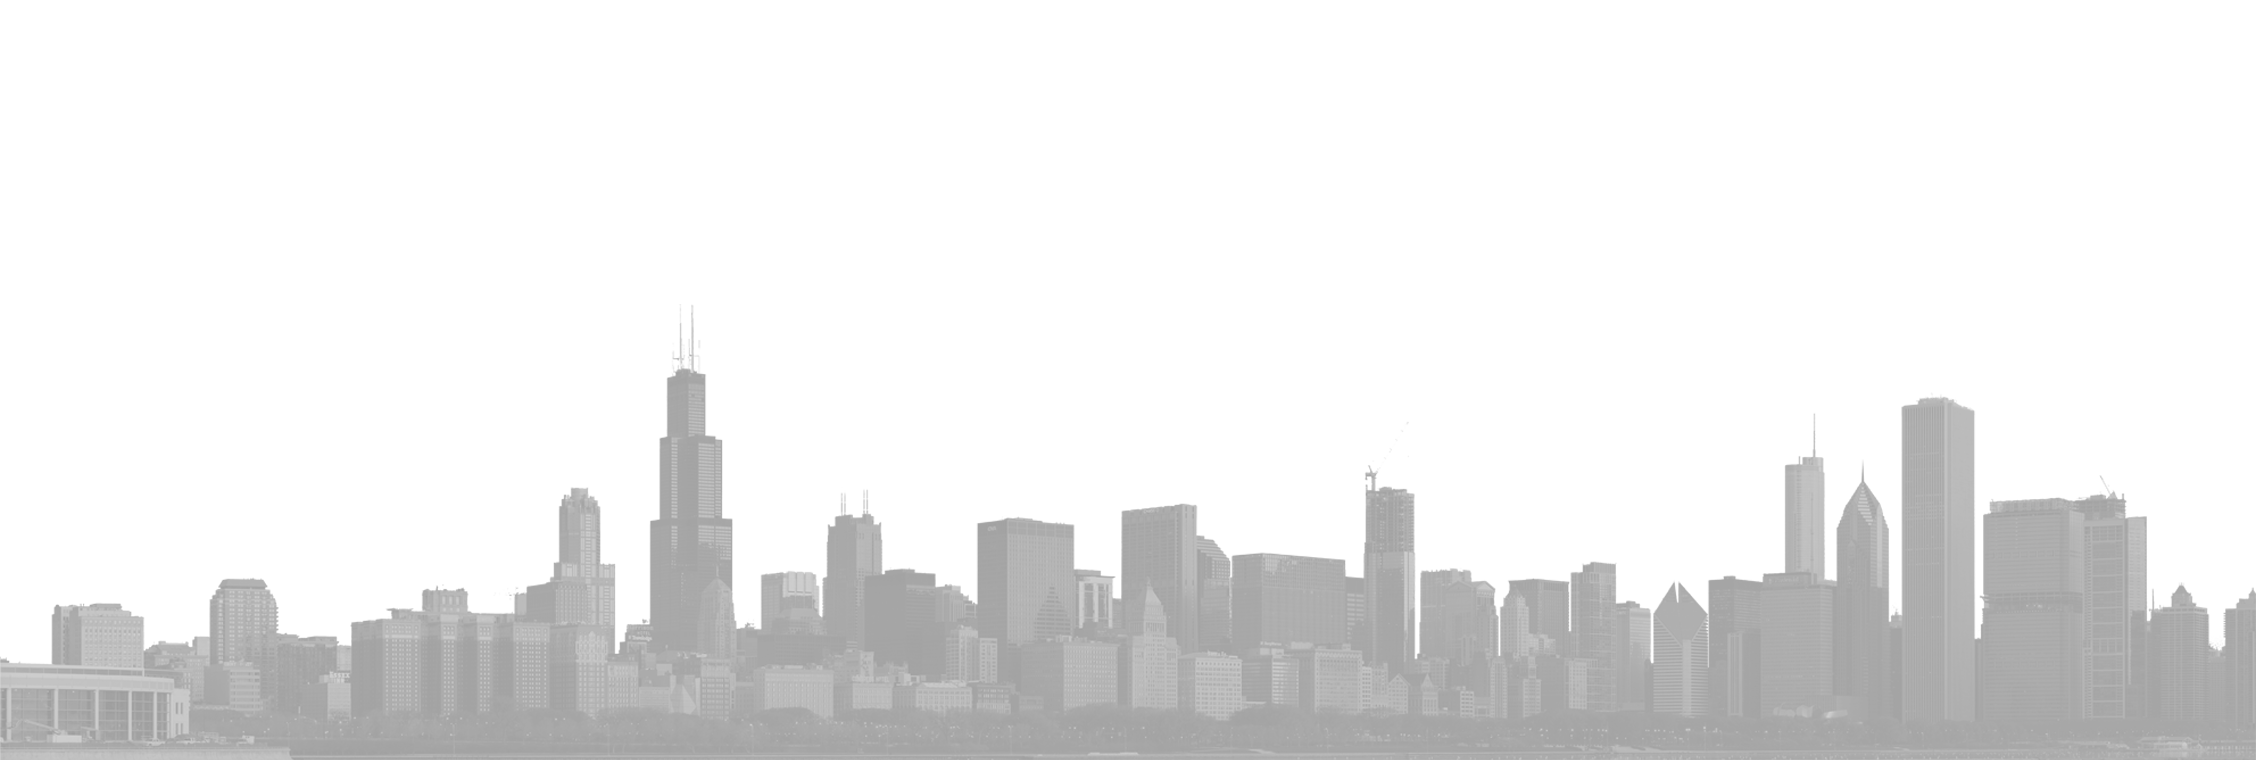
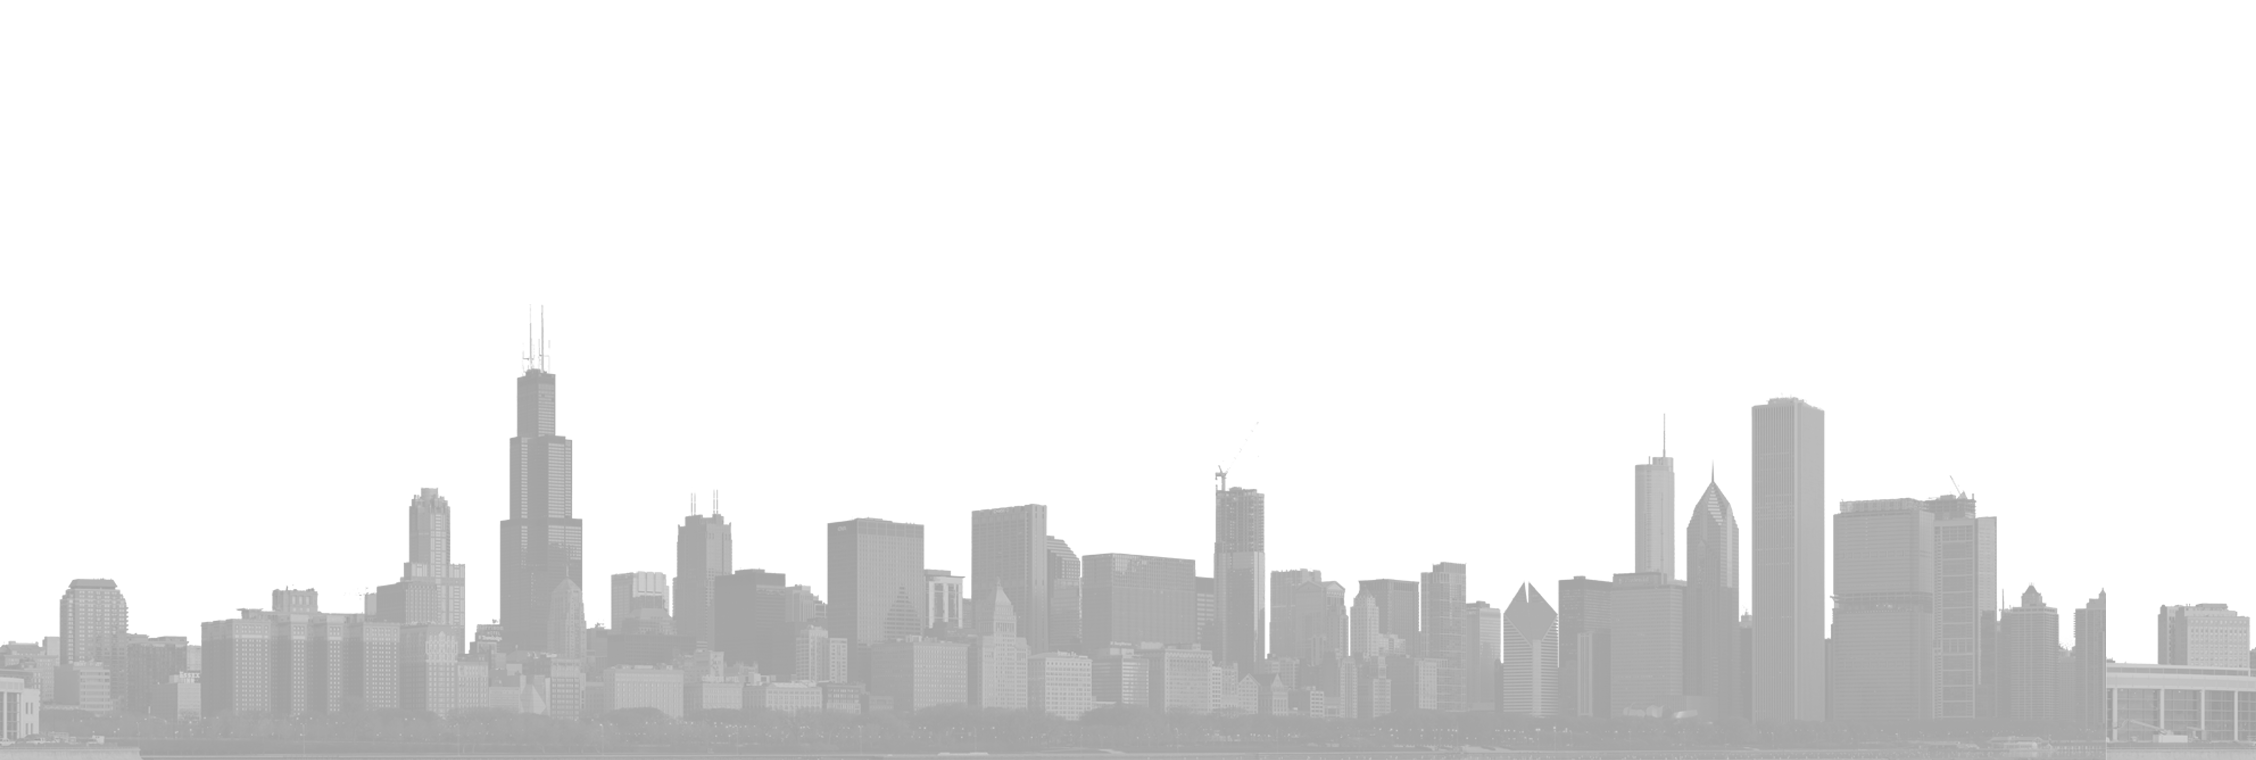
ThatGuy: Added more skinr options: Text color, fontface. Updated skyline.png so that Willis Tower is outside the content flow.

diff --git a/sites/all/themes/chicago_2011/css/chicago-2011-styles.css b/sites/all/themes/chicago_2011/css/chicago-2011-styles.css
@@ -105,7 +105,7 @@ body {
 }
 
 #page {
-	background: transparent url('../images/bg/skyline.png') no-repeat center 56px;
+	background: transparent url('../images/bg/skyline.png') repeat-x center 56px;
 }
 
 /* ----- /Base Style */
@@ -303,6 +303,7 @@ ul.links li {
 /* Content tabs */
 #content-tabs {
 	background: transparent none;
+	border: medium none;
 	padding: 12px;
 }
 
@@ -326,7 +327,7 @@ ul.links li {
 	color: #999;
 	display: inline-block;
 	line-height: 1em;
-	font-family: LeagueGothic, Verdana, Geneva, sans-serif;
+	font-family: LeagueGothic, Tahoma, Geneva, sans-serif;
 	font-size: 24px;
 	font-weight: normal;
 }
@@ -357,7 +358,7 @@ ul.links li {
 ul.menu a:link,
 ul.menu a:visited {
 	color: #fff;
-	font-family: LeagueGothic, Verdana, Geneva, sans-serif;
+	font-family: LeagueGothic, Tahoma, Geneva, sans-serif;
 	font-size: 18px;
 	font-weight: normal;
 	text-decoration: none;
@@ -374,7 +375,10 @@ ul.menu a.active {
 }
 
 /* Primary Nav */
-#site-menu {}
+#site-menu {
+	position: relative;
+	top: 62px;
+}
 
 ul.main-menu li {
 	background: transparent url('../images/nav_sep.png') no-repeat right center;
@@ -400,7 +404,7 @@ ul.main-menu a:link,
 ul.main-menu a:visited {
 	color: #fff;
 	display: block;
-	font-family: LeagueGothic, Verdana, Geneva, sans-serif;
+	font-family: LeagueGothic, Tahoma, Geneva, sans-serif;
 	font-size: 26px;
 	font-weight: normal;
 	line-height: 48px;
@@ -563,7 +567,7 @@ div.messages a:visited,
   color: inherit;
   font-size: 24px;
   line-height: 24px;
-  font-family: LeagueGothic,Verdana,Geneva,sans-serif;
+  font-family: LeagueGothic, Verdana, Geneva, sans-serif;
   text-decoration: none;
   text-transform: uppercase;
   text-shadow: 1px 1px 0 #545454;
@@ -613,6 +617,25 @@ blockquote {}
   clear: both;
 }
 
+a.callout:link,
+a.callout:visited {
+  color: #fff;
+  font-family: LeagueGothic, Tahoma, Geneva, sans-serif;
+  font-weight: normal;
+  font-size: 1.25em;
+  line-height: 24px;
+  text-decoration: none;
+  text-transform: uppercase;
+  padding: 0pt 0.25em;
+}
+
+a.callout:hover,
+a.callout:focus,
+a.callout.active {
+	color: #f27c38;
+	text-decoration: underline;
+}
+
 /* Skinr Styles -------------------------------------------- */
 /* Layout Styles */
 .dcc-no-y-margin {
@@ -649,6 +672,103 @@ blockquote {}
 .dcc-title-white .title a {
 	color: #fff;
 }
+
+.dcc-text-white .content {
+	color: #fff;
+}
+
+.dcc-text-dark-grey .content {
+	color: #333;
+}
+
+.dcc-text-grey .content {
+	color: #545454;
+}
+
+.dcc-text-light-grey .content {
+	color: #b4b4b4;
+}
+
+.dcc-text-black .content {
+	color: #000;
+}
+
+.dcc-text-red .content {
+	color: #d9362b;
+}
+
+.dcc-font-bebasneue .content {
+	font-family: BebasNeue, Arial, Helvetica, sans-serif;
+	font-weight: normal;
+	font-style: normal;
+}
+
+.dcc-font-bebas .content {
+	font-family: Bebas, Arial, Helvetica, sans-serif;
+	font-weight: normal;
+	font-style: normal;
+}
+
+.dcc-font-bodidly .content {
+	font-family: Bodidly, "Palatino Linotype", "Book Antiqua", Palatino, serif;
+	font-weight: normal;
+	font-style: normal;
+}
+
+.dcc-font-leaguegothic .content {
+	font-family: LeagueGothic, Tahoma, Geneva, sans-serif;
+	font-weight: normal;
+	font-style: normal;
+}
+
+.dcc-font-trajanpro-bold .content {
+	font-family: TrajanPro, Georgia, "Times New Roman", Times, serif;
+	font-weight: bold;
+	font-style: normal;
+}
+
+.dcc-font-trajanpro .content {
+	font-family: TrajanPro, Georgia, "Times New Roman", Times, serif;
+	font-weight: normal;
+	font-style: normal;
+}
+
+.dcc-font-gillsans .content {
+	font-family: GillSans, Helvetica, Arial, sans-serif;
+	font-weight: normal;
+	font-style: normal;
+}
+
+.dcc-font-gillsans-light .content {
+	font-family: GillSans, Helvetica, Arial, sans-serif;
+	font-weight: 100;
+	font-style: normal;
+}
+
+.dcc-font-gillsans-bold .content {
+	font-family: GillSans, Helvetica, Arial, sans-serif;
+	font-weight: bold;
+	font-style: normal;
+}
+
+.dcc-font-gillsans-italic .content {
+	font-family: GillSans, Helvetica, Arial, sans-serif;
+	font-weight: normal;
+	font-style: italic;
+}
+
+.dcc-font-gillsans-light-italic .content {
+	font-family: GillSans, Helvetica, Arial, sans-serif;
+	font-weight: 100;
+	font-style: italic;
+}
+
+.dcc-font-gillsans-bold-italic .content {
+	font-family: GillSans, Helvetica, Arial, sans-serif;
+	font-weight: bold;
+	font-style: italic;
+}
+
 
 /* Block Styles */
 .dcc-raised-white {}
